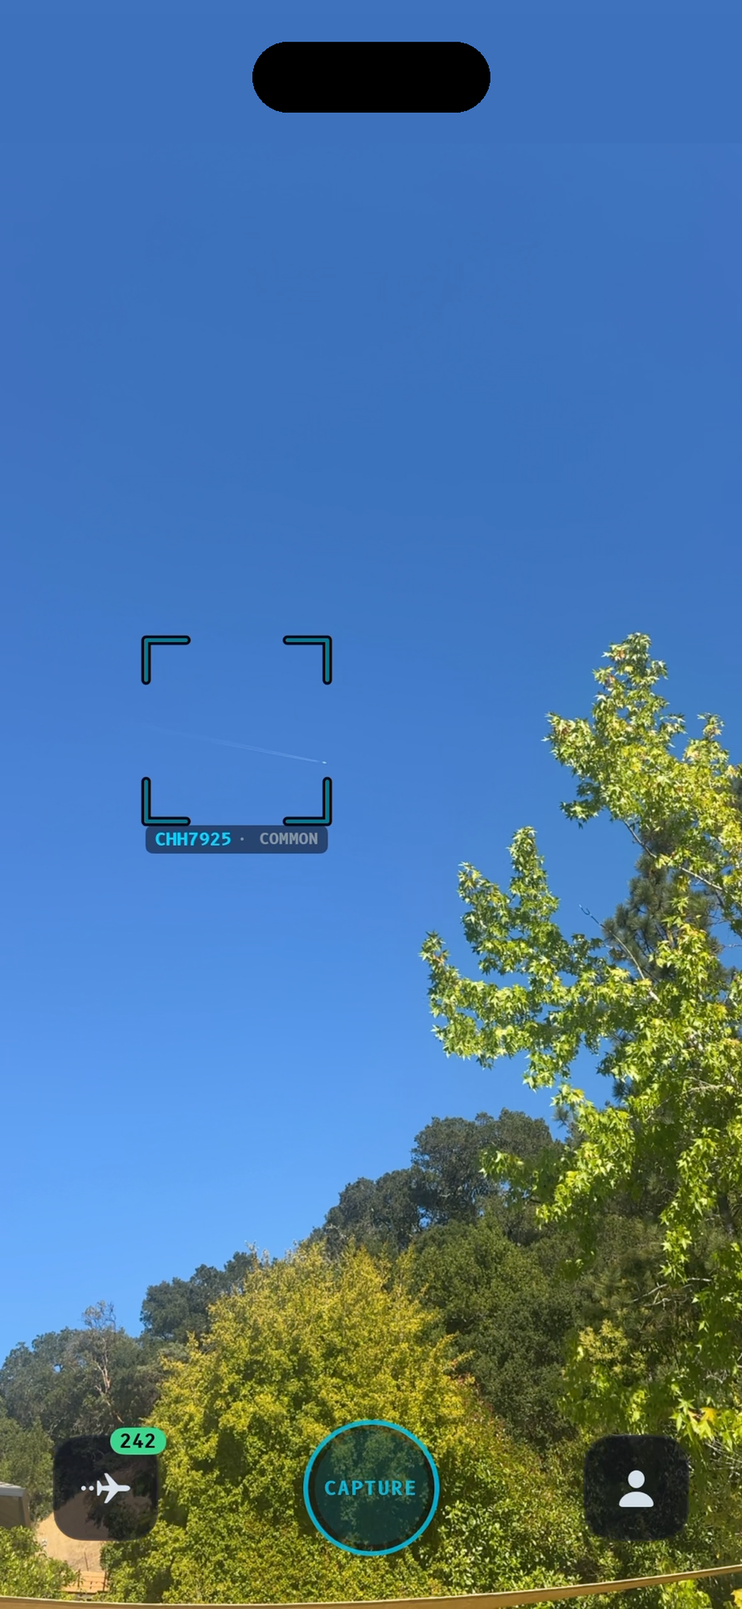
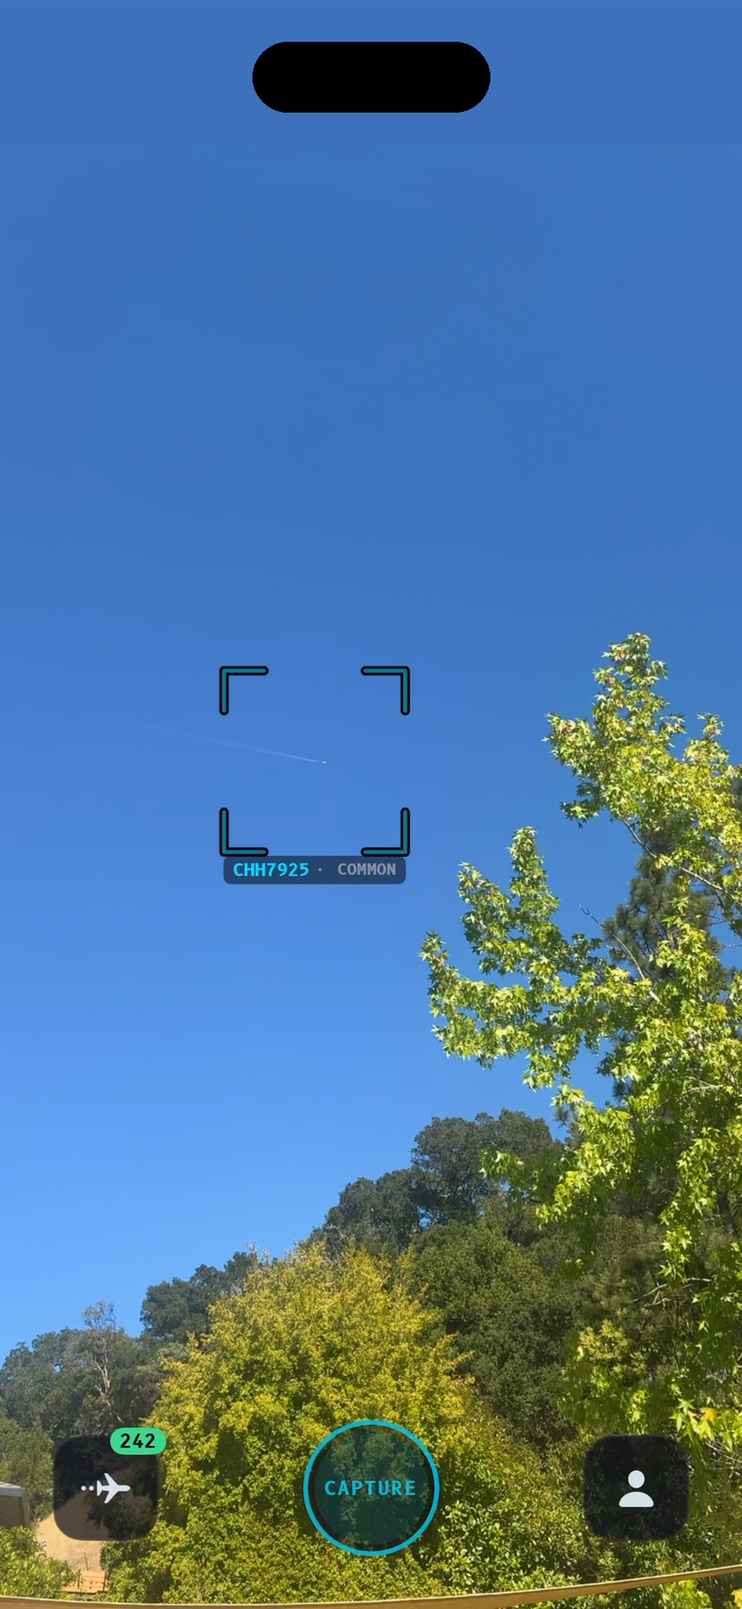
marketing: align the hero bracket, add the 1242x2688 export size
Two things from Noah.

Bracket: the hero's lock-on bracket is now recentred on the plane. I'd left
it as-shot and flagged that moving it edits what the app did in that moment;
Noah made the call after seeing both. The unretouched capture is kept at
docs/ga/screenshots-raw/01-hud-bracket-as-shot.png so the original framing
isn't lost.

The alignment is redone on the current no-status-bar base rather than reusing
the earlier build. The contrail is explicitly excluded from the move mask, so
the plane and its trail stay exactly where they were photographed and only the
HUD travels; the label pill's band is filled before the lift so its light
"COMMON" glyphs move with the pill instead of being stranded.

Sizes: App Store Connect's iPhone slot accepts 1242x2688 or 1284x2778, and
EXPORT_SIZES topped out at 1320x2868 with no 1242x2688 at all. Added it, and
fixed the label on 1284x2778 — that's the 6.7" alternate, not 6.5". The deck
now exports at five sizes.

The July set that shipped with v1.0.0 is preserved next to the new export as
export-archive-2026-07-21-shipped-v1.0.0/ rather than overwritten. Both are
gitignored.

Claude-Session: https://claude.ai/code/session_01HfKbi9nJQTCw4nCWnEhZQe

diff --git a/marketing/app-store-screenshots/src/lib/constants.ts b/marketing/app-store-screenshots/src/lib/constants.ts
@@ -14,9 +14,13 @@ export const CANVAS: Record<Device, { w: number; h: number; wL?: number; hL?: nu
 export type ExportSize = { label: string; w: number; h: number };
 
 export const EXPORT_SIZES: Record<Device, ExportSize[]> = {
+  // App Store Connect's iPhone display slots. The 6.7"/6.5" slot accepts
+  // 1284x2778 OR 1242x2688 — ship both so the upload never bounces on size.
+  // (1284x2778 was previously mislabelled 6.5"; that size is the 6.7" alternate.)
   iphone: [
     { label: '6.9"', w: 1320, h: 2868 },
-    { label: '6.5"', w: 1284, h: 2778 },
+    { label: '6.7"', w: 1284, h: 2778 },
+    { label: '6.5"', w: 1242, h: 2688 },
     { label: '6.3"', w: 1206, h: 2622 },
     { label: '6.1"', w: 1125, h: 2436 },
   ],

diff --git a/PLAN.md b/PLAN.md
@@ -398,7 +398,7 @@ historical plans/specs/reviews. Still only planned:
 | 5 | ~~**Card-art medium decision (§6.3) → better-cards build**~~ | Bet B · Collection | — | **✅ RESOLVED 2026-07-09 — keep the current hero (own photo / placeholder); no new medium, no art spend.** Decided on-device via the Card Art Lab spike (see §6.3 for the full record). The "better-cards build" as scoped is retired; card excitement continues through the chrome/reveal polish already shipping in #6. |
 | 6 | **UX/UI polish sweep** (+ grounded-plane block + "tried it" badge, old #8/#11) | Bet B · craft | ~1–2d | First impressions for the launch cohort; lingering cruft that doesn't fit the new points scheme. The grounded-plane easter egg folds in as part of the same pass. **Early progress 2026-07-04:** the Recent `TailCard` now speaks the reveal's design language (hero model line + mono route with rarity-tinted arrow — branch `feat/recent-card-reveal-language`; review doc `docs/archive/reviews/2026-07-04-recent-card-reveal-language.html`). **2026-07-05:** the detail screen became the settled reveal card itself (Direction B, PR #103), and the share image + photo crop followed (share artboard = settled card in brand chrome; hero crop anchors on the plane via `Catch.photoFocusX/Y` — branch `feat/share-settled-focus`). **2026-07-08:** Profile/Settings legacy-artifact scrub for v1 (branch `polish/settings-v1-cleanup`): OpenSky data-source credit → adsb.lol; fake `PUBLIC` pill + onboarding public-profile toggle removed; Notifications placeholder + orphaned `TrophiesScreen` deleted; rarity-reference examples re-synced to the 2026-07-01 tiers; Settings on brand list chrome (was system-white in light mode). Details: CHANGELOG 2026-07-08. **2026-07-09 (branch `feat/catch-card-centering`, Noah field feedback):** the **flight number (callsign)** now shows on `SettledCatchCard` (right-aligned tier line); the photo actually **centers on the plane** — `CatchPhotoFocusRecovery` back-fills `photoFocus` from the baked cyan bracket for the 82/85 catches that had none (version-gated `CatchBackfill.backfillPhotoFocus`, off-MainActor), and `FocusFill` now zooms in (capped 1.6×) to pull outer-band planes to center. N415YX re-healed on its detected plane (the earlier "sub-floor speck" call was wrong — a targeted pass finds it at 15 px/0.54). The Hangar **list thumbnails** (`TailCard`) now center on the plane too via `FocusThumbnail` (ImageIO-downsampled, `FocusFill`-cropped — branch `feat/thumbnail-focus`). **2026-07-10 — polish sweep PR A ("the mechanical ten") SHIPPED** (branch `polish/mechanical-sweep`): the objective fixes from the full-app UI survey — stale "Settings → Identity" copy → "Profile → Settings"; Leaderboard List branded (was the last system-chrome List, white in light mode) + its section headers restyled to the mono ALL-CAPS pattern; empty AccentColor asset filled with brand cyan; `Color.primary` legal-link leak → `Brand.Color.textPrimary`; a11y labels on the catch-detail chrome pills; 44 pt hit targets (contentShape inset, no visual bloat) on the chrome pills + Hangar child-bar back; dead `ComingSoonPill.swift` deleted; re-typed hexes routed through Brand (`ledgerGold`, `duplicateRose`, `Rarity.rare` → `Brand.Color.cyan` — zero pixel drift, snapshot-verified); Reduce Motion coverage for the reveal split-flap (fade to identical settled frame), MultiCatchReveal (plain fades, cadence kept), Figure8Animation (static path), and the empty-sky pulse dot. Details: CHANGELOG 2026-07-10. **2026-07-10 — taste-call PR B ("the taste calls") BUILT** (branch `polish/taste-calls`): Noah's seven verdicts — app locked to dark (`preferredColorScheme(.dark)` at the root; PR A's light-mode compensations kept as belt-and-suspenders); `Brand.Radius` token scale (chip 6 / row 12 / card 16 / hero 26; 69 literals snapped, computed/dims-table/tiny-accent/HUD-bracket exceptions left literal); `Brand.Font.display` (26 pt bold) as the ONE prose-head size (nine freelancing heads converted) + the mono-vs-system type rule codified in Brand.swift; dry voice (indoor hint → "Not many planes indoors."; unclaimed handle = designed CLAIM YOUR HANDLE state on the Profile header instead of "@spotter_42", Settings no longer prefills the placeholder); Profile Liquid Glass KEPT, duplicate-catch haptic KEPT, nav-chrome rule codified doc-only (custom chrome = game surfaces, stock-but-branded = utility screens). Details: CHANGELOG 2026-07-10. **Sweep remainder: Noah's on-device field pass** over the taste calls (D1/D3/D6 want feel, not screenshots) + the still-open grounded-plane "tried it" badge. **2026-07-12 — HIG compliance pass SHIPPED** (branch `hig-compliance-fixes`, from the full-app HIG audit + the `ehmo/platform-design-skills` cross-check): (1) **Dynamic Type end-to-end** — Brand system tokens now ride the built-in text styles (identical metrics at default, so zero pixel drift), `Brand.Font.mono(…, relativeTo:)` anchors mono on every scrollable surface, the 26 pt display head became `.brandDisplayFont()` (`@ScaledMetric`), and **Bold Text** maps mono to the B612 Bold face via a `TailspotApp`-refreshed mirror; AR HUD + card artboards stay fixed BY CHOICE. (2) **VoiceOver on the catch loop** — AR plane labels are elements with pin/unpin actions (nearest-first), the reveal announces the result on settle, `FlapRow` reads as one label (kills letter-by-letter model names, reveal + Hangar hero), leaderboard/profile/cards/tiles/rows read as single combined elements, decorative symbols hidden app-wide. (3) **44 pt touch targets** on all 17 audited controls (contentShape insets — no visual bloat) + interactive sub-11 pt text bumped to 11. (4) Point fixes: Hangar sheet close pill, locked-Set-tile + dimmed-AR-label + version-footer contrast, Reduce Motion gates (empty-tap ripple, segmented pills, completion ring), capture bar clears the home indicator, launch screen paints bgPrimary (was a white flash on light-mode phones), orphaned `CardReveal.swift` deleted. New `DynamicTypeSnapshotTests` renders key screens at default vs `.accessibility2` as the scaling regression net. Audit + findings: the session's HIG artifact; review doc in `docs/archive/reviews/`. |
 | 7 | **Hangar restore/sync** (widened from old #14 Sets sync) | Bet D · Backend | ~2–3d | **SHIPPED — merged #125 (2026-07-11); backend prod deploy pending Noah's go.** Elevated by GA: the local-only Hangar (no sync, photos never uploaded) is tester-acceptable but a GA-scale catastrophic-loss risk — delete/replace the phone and the collection is gone (device-id Keychain fix #55 landed; restore is the open follow-up #58). Catches already upload; the gap is the restore path + Sets. **Restore-from-server merged #125**: backend `GET /v1/catches` (device-scoped, paged, airframe joins; NO schema change/migration) + iOS `HangarRestoreManager`/`HangarRestorePromptView` — empty-Hangar launch check → "N CATCHES FOUND" offer (photo caveat up front: photos are unrecoverable, catch-data only) → idempotent insert keyed on the upload uuid, born-uploaded (no re-POST), trophy-ledger reseed (no celebration flood), one `hangar_restored` event. Details CHANGELOG 2026-07-10. **Remaining for this row:** on-device reinstall field test (Noah), photo upload/sync decision (deliberately out of scope, issue #58), and Sets sync if it's ever more than restore. |
-| 8 | **GA-gate housekeeping** — ICAO DOC 8643 terms re-check (old #15, ~30 min), privacy policy + ToS, App Store assets/ASO, region-limited-launch confirm (§6.6) | Housekeeping · launch gate | ~2–3d spread | **Drafts done 2026-07-11 — `docs/ga/`** (branch `docs/ga-housekeeping`): revised privacy policy + ToS grounded in verified source (the hosted June-11 pages are stale — embedded PostHog SDK + session replay, continuous while-in-use location polls, and Hangar restore are all undisclosed), the Planespotters/adsb.lol licensing review (verdict: keep both; adsb.lol fully compliant; Planespotters compliant except the thumbnail itself isn't link-backed — one small `CatchDetailView` fix), the full App Store listing draft (name/subtitle/description/keywords, Games→Casual, 4+, honest nutrition-label table), and the 6.7" screenshot plan (capture on-device, frame to 1290×2796; guess-round shot gated on game-layer PR3). **Region decided: worldwide** (Noah, 2026-07 — supersedes §6.6's US+W. Europe default; mitigation = coverage caveat in the listing + empty-sky messaging). **Code-level gaps CLOSED 2026-07-11 (branch `feat/launch-readiness`; audit docs in PR #128):** session-replay privacy (scoped `.postHogMask()` on all catch-photo views; camera excluded structurally + pinned by `SessionReplayPrivacyTests`), Planespotters thumbnail-link fix + UA bump, PrivacyInfo.xcprivacy Linked=true truth-up (Photos declaration removed — never collected), `ITSAppUsesNonExemptEncryption=NO`, **MARKETING_VERSION → 1.0.0**, and the rewritten `web/public/privacy.html` + `terms.html` (effective 2026-07-11) — details CHANGELOG 2026-07-11. **Still open, all Noah/manual:** deploy tailspot-www with the rewritten pages (`cd web && flyctl deploy --remote-only`, Noah's go); the App Store Connect click-through (checklist in `docs/ga/appstore-listing.md` — privacy label/nutrition sync matching the manifest's Linked=true posture, age rating, availability=all regions, review notes + outdoor-catch demo video); the ICAO terms re-check (needs the live terms page). **App Store screenshots GENERATED 2026-07-20** (supersedes the field-session-first plan): the full 6-slide set — AR catch → collection card → guess round → Hangar sets → trophies → leaderboard, Noah's copy, no label eyebrows — exported at all four required iPhone sizes from the `marketing/app-store-screenshots/` editor (deck in `app-store-screenshots.json`, "tailspot-dusk" theme + contrail decor; the store-ready PNGs live in its gitignored `export/` + the editor's zip in `~/Downloads`, regenerable via Export bundle). Source captures render from real screens with fixture data via `MarketingSnapshotTests` (ImageRenderer for card shots; glass-bearing screens captured off the booted sim via the `tools/marketing-shot-watcher.sh` + flag-file handshake — offscreen capture garbles `.glassEffect`; the suite only runs with `TEST_RUNNER_MARKETING_CAPTURE=1`, CI skips it). The **field session now only replaces slide 1** (the AR shot is a stylized stand-in composed from the real HUD components — sim has no camera); slides 4–5 can optionally swap in Noah's real Hangar. **SUBMITTED TO THE APP STORE 2026-07-21 (v1.0.0, Waiting for Review)** — the ASC click-through is done. `tailspot-www` deployed 2026-07-21 with the rewritten privacy/ToS (effective 2026-07-11; previously repo-only — the live site had been serving the stale June-11 pages) plus a new **`/support` page** (mailto button to support@tailspot.app; this is the listing's support URL; Support footer link sitewide; `.content a.btn-primary` contrast fix for buttons on content pages). **Screenshots upgraded to REAL catches 2026-08-19** (branch `marketing/real-catch-photos`): slides 2 (collection card) and 3 (guess round) were rendering a synthetic dusk gradient with an SF Symbol airplane and invented catches (a Lufthansa A380, a Cathay 747-8F). They now render Noah's own catches — the BD-700 Global Express at 43,225 ft (RARE, first of type, +75) and the JetBlue A321neo up from Guayaquil — using the app's own composed catch JPEGs as hero photos. Ten real catch photos + a bracket-centre focus manifest live in `marketing/catch-photos/`, staged for the sim by `bin/marketing-stage-photos`; `MarketingSnapshotTests` gained a shared `writeOffscreen` writer because ImageRenderer draws any photo-bearing card as the yellow "no entry" placeholder. Slide 1's callsigns/tiers are now real too, but its SKY is still synthetic — the share-card crops are landscape strips and can't fill a portrait frame. **Finishing it needs the phone UNLOCKED**: the full-frame originals are in `Documents/catches/` and pull via `devicectl` (blocked on `kAMDMobileImageMounterDeviceLocked` on 2026-08-19). Re-export the bundle from the editor before the next submission. **Slide 1 replaced with a REAL field capture 2026-08-19** (Noah's HUD screenshot, CHH7925 over Berkeley): the synthetic dusk sky is gone from the whole deck. Retouch was cosmetic only — the in-progress call pill, screen-recording dot and mic indicator were painted out and the Dynamic Island/battery restored to idle, over sky extrapolated from the rows below. **The lock-on bracket was deliberately NOT moved**, though it sits low-right of the plane: everything else is cosmetic, but repositioning the bracket edits what the app did, and "the lock-on found the plane" is the product's core claim (the offset is invisible at store scale anyway). An aligned version exists at `docs/ga/screenshots-raw/01-hud-bracket-aligned-NOT-SHIPPED.png` if Noah decides otherwise. Source was 923 px wide (pasted, not the original file) and upscaled to 1179 — a re-shoot wants a closer plane, the bracket in the upper-middle third, DND on, and the original file. Bundle re-exported at all four sizes. **Three follow-up fixes 2026-08-19 (Noah's review):** (1) the status bar is now removed ENTIRELY from slide 1 — no time, carrier, wifi or battery, only the Dynamic Island (hardware); the rebuilt-clean-bar version still read wrong. (2) The collection card's stacked back card is GONE — at every offset tried (below-right, corner-peek, with/without photo) only a FRAGMENT of the back card showed, which reads as a rendering bug; slide 4's Hangar grid already sells the collection. (3) The decorative `Contrail` in `slide-canvas.tsx` was deleted — at export opacity its two trail lines vanished and only the head dot survived, leaving a stray speck in the top-right of all six slides at every size. **Also hardened:** a missing staged catch photo now fails LOUDLY via `Issue.record` — `/private/tmp` is swept periodically and the harness had been silently degrading to the illustrated placeholder, which nearly shipped into the deck mid-session. Always run `bin/marketing-stage-photos` immediately before a capture. Still open: the ICAO DOC 8643 terms re-check (now unblocked — live terms page is up), and riding out App Review (Resolution Center replies as needed; check the release-on-approval setting). |
+| 8 | **GA-gate housekeeping** — ICAO DOC 8643 terms re-check (old #15, ~30 min), privacy policy + ToS, App Store assets/ASO, region-limited-launch confirm (§6.6) | Housekeeping · launch gate | ~2–3d spread | **Drafts done 2026-07-11 — `docs/ga/`** (branch `docs/ga-housekeeping`): revised privacy policy + ToS grounded in verified source (the hosted June-11 pages are stale — embedded PostHog SDK + session replay, continuous while-in-use location polls, and Hangar restore are all undisclosed), the Planespotters/adsb.lol licensing review (verdict: keep both; adsb.lol fully compliant; Planespotters compliant except the thumbnail itself isn't link-backed — one small `CatchDetailView` fix), the full App Store listing draft (name/subtitle/description/keywords, Games→Casual, 4+, honest nutrition-label table), and the 6.7" screenshot plan (capture on-device, frame to 1290×2796; guess-round shot gated on game-layer PR3). **Region decided: worldwide** (Noah, 2026-07 — supersedes §6.6's US+W. Europe default; mitigation = coverage caveat in the listing + empty-sky messaging). **Code-level gaps CLOSED 2026-07-11 (branch `feat/launch-readiness`; audit docs in PR #128):** session-replay privacy (scoped `.postHogMask()` on all catch-photo views; camera excluded structurally + pinned by `SessionReplayPrivacyTests`), Planespotters thumbnail-link fix + UA bump, PrivacyInfo.xcprivacy Linked=true truth-up (Photos declaration removed — never collected), `ITSAppUsesNonExemptEncryption=NO`, **MARKETING_VERSION → 1.0.0**, and the rewritten `web/public/privacy.html` + `terms.html` (effective 2026-07-11) — details CHANGELOG 2026-07-11. **Still open, all Noah/manual:** deploy tailspot-www with the rewritten pages (`cd web && flyctl deploy --remote-only`, Noah's go); the App Store Connect click-through (checklist in `docs/ga/appstore-listing.md` — privacy label/nutrition sync matching the manifest's Linked=true posture, age rating, availability=all regions, review notes + outdoor-catch demo video); the ICAO terms re-check (needs the live terms page). **App Store screenshots GENERATED 2026-07-20** (supersedes the field-session-first plan): the full 6-slide set — AR catch → collection card → guess round → Hangar sets → trophies → leaderboard, Noah's copy, no label eyebrows — exported at all four required iPhone sizes from the `marketing/app-store-screenshots/` editor (deck in `app-store-screenshots.json`, "tailspot-dusk" theme + contrail decor; the store-ready PNGs live in its gitignored `export/` + the editor's zip in `~/Downloads`, regenerable via Export bundle). Source captures render from real screens with fixture data via `MarketingSnapshotTests` (ImageRenderer for card shots; glass-bearing screens captured off the booted sim via the `tools/marketing-shot-watcher.sh` + flag-file handshake — offscreen capture garbles `.glassEffect`; the suite only runs with `TEST_RUNNER_MARKETING_CAPTURE=1`, CI skips it). The **field session now only replaces slide 1** (the AR shot is a stylized stand-in composed from the real HUD components — sim has no camera); slides 4–5 can optionally swap in Noah's real Hangar. **SUBMITTED TO THE APP STORE 2026-07-21 (v1.0.0, Waiting for Review)** — the ASC click-through is done. `tailspot-www` deployed 2026-07-21 with the rewritten privacy/ToS (effective 2026-07-11; previously repo-only — the live site had been serving the stale June-11 pages) plus a new **`/support` page** (mailto button to support@tailspot.app; this is the listing's support URL; Support footer link sitewide; `.content a.btn-primary` contrast fix for buttons on content pages). **Screenshots upgraded to REAL catches 2026-08-19** (branch `marketing/real-catch-photos`): slides 2 (collection card) and 3 (guess round) were rendering a synthetic dusk gradient with an SF Symbol airplane and invented catches (a Lufthansa A380, a Cathay 747-8F). They now render Noah's own catches — the BD-700 Global Express at 43,225 ft (RARE, first of type, +75) and the JetBlue A321neo up from Guayaquil — using the app's own composed catch JPEGs as hero photos. Ten real catch photos + a bracket-centre focus manifest live in `marketing/catch-photos/`, staged for the sim by `bin/marketing-stage-photos`; `MarketingSnapshotTests` gained a shared `writeOffscreen` writer because ImageRenderer draws any photo-bearing card as the yellow "no entry" placeholder. Slide 1's callsigns/tiers are now real too, but its SKY is still synthetic — the share-card crops are landscape strips and can't fill a portrait frame. **Finishing it needs the phone UNLOCKED**: the full-frame originals are in `Documents/catches/` and pull via `devicectl` (blocked on `kAMDMobileImageMounterDeviceLocked` on 2026-08-19). Re-export the bundle from the editor before the next submission. **Slide 1 replaced with a REAL field capture 2026-08-19** (Noah's HUD screenshot, CHH7925 over Berkeley): the synthetic dusk sky is gone from the whole deck. Retouch was cosmetic only — the in-progress call pill, screen-recording dot and mic indicator were painted out and the Dynamic Island/battery restored to idle, over sky extrapolated from the rows below. **The lock-on bracket was deliberately NOT moved**, though it sits low-right of the plane: everything else is cosmetic, but repositioning the bracket edits what the app did, and "the lock-on found the plane" is the product's core claim (the offset is invisible at store scale anyway). An aligned version exists at `docs/ga/screenshots-raw/01-hud-bracket-aligned-NOT-SHIPPED.png` if Noah decides otherwise. Source was 923 px wide (pasted, not the original file) and upscaled to 1179 — a re-shoot wants a closer plane, the bracket in the upper-middle third, DND on, and the original file. Bundle re-exported at all four sizes. **Three follow-up fixes 2026-08-19 (Noah's review):** (1) the status bar is now removed ENTIRELY from slide 1 — no time, carrier, wifi or battery, only the Dynamic Island (hardware); the rebuilt-clean-bar version still read wrong. (2) The collection card's stacked back card is GONE — at every offset tried (below-right, corner-peek, with/without photo) only a FRAGMENT of the back card showed, which reads as a rendering bug; slide 4's Hangar grid already sells the collection. (3) The decorative `Contrail` in `slide-canvas.tsx` was deleted — at export opacity its two trail lines vanished and only the head dot survived, leaving a stray speck in the top-right of all six slides at every size. **Also hardened:** a missing staged catch photo now fails LOUDLY via `Issue.record` — `/private/tmp` is swept periodically and the harness had been silently degrading to the illustrated placeholder, which nearly shipped into the deck mid-session. Always run `bin/marketing-stage-photos` immediately before a capture. **Bracket aligned + 1242×2688 added 2026-08-20 (Noah's call):** the hero's lock-on bracket IS now recentred on the plane — Noah decided after seeing the trade-off; the unretouched original is kept at `docs/ga/screenshots-raw/01-hud-bracket-as-shot.png`. `EXPORT_SIZES` gained **1242×2688** (and 1284×2778 was mislabelled 6.5" — it is the 6.7" alternate), because App Store Connect's iPhone slot accepts 1242×2688 / 1284×2778 and the deck previously exported neither as its top size. The set now exports at five sizes; the July set that shipped with v1.0.0 is archived alongside as `export-archive-2026-07-21-shipped-v1.0.0/`. Still open: the ICAO DOC 8643 terms re-check (now unblocked — live terms page is up), and riding out App Review (Resolution Center replies as needed; check the release-on-approval setting). |
 | 9 | **Push alerts (v1.1 headline)** — (a) leaderboard/contest + (b) plane-overhead (rare + personal-gap) + (c) streak-protection (bbox watch → APNs) | Engagement bet | ~5–7d | **v1.1 HEADLINE (2026-07-21 re-prioritization — see the top of §9). Scope defined 2026-07-21 (Noah): three alert categories sharing one APNs foundation.** Still the marquee retention lever (DAU/WAU), and it pays off against an installed base — that base arrives with GA. **(a) Leaderboard/contest alerts** — rides the #12 dynamic-leaderboard machinery (calendar weeks, UTC close, decide-on-read champion freezing). Four moments: **board-close result** — your finishing spot when the week closes (top-3 gets podium/champion framing; open sub-call: alert top-3 only vs. every finisher); **closing-window nudge** — the board is about to close and a better rank is within reach ("N points from #2 — resets Monday"); **overtaken** — someone passed you mid-week (the opportunity-to-improve-your-rank hook); **new-board open** — fresh week, everyone at zero, the champion is there to be replaced. The backend already computes every trigger except *overtaken* (needs a rank-change watcher); most of (a)'s cost is scheduling/delivery, not new game logic. **(b) Plane-overhead alerts (rare + personal collection gap)** — the original concept (wishlist #5): the server watches the ADS-B feed around each device's area and pushes when an alert-worthy type is anticipated to pass overhead **under conditions it could plausibly be seen** (daylight, inside the visibility band the app already models, enough lead time to step outside) — a real chance to catch it and add to the score, and the strongest re-engage-from-outside-the-app lever. Alert-worthy means either: an **uncommon-or-rarer** tier, or (**personal-gap targeting, added 2026-07-21**) a type the device has **never caught** — globally common but personally novel (the PoGo "one you don't have" hook; first-of-type is already server-detectable from the device's uploaded catches, so no new data is needed). Gap targeting massively widens the alertable inventory without lowering the interestingness bar — every alert is a plane the user's collection wants. Set-completion targeting ("this completes your Widebody set") is a stretch goal: Sets are client-derived today, so the server would need the set definitions. **(c) Streak-protection alerts** (added 2026-07-21; gated on the daily catch-streak mechanic + LONGEST STREAK Profile stat riding v1.1 in parallel — see the header): when a live streak is about to lapse, one evening-local nudge — "your N-day streak ends at midnight — catch one today." Fires only for streaks worth protecting (≥3 days) and ideally only when the local sky actually has catchable traffic (reuses (b)'s watch machinery); the server computes the current streak from uploaded catches. Open sub-call: day boundary — lean **local midnight** (PoGo-style; users experience days locally) over UTC, unlike the leaderboard's deliberate UTC weeks. **Frequency discipline is a design requirement, not post-hoc tuning:** (b)+(c) share one hard cap (order ~1/day max across overhead + streak nudges; tier-weighted, and common types never fire unless personally novel) and (a) is capped per-week; every alert must be actionable the moment it arrives, or it trains users to disable notifications. Cross-cutting: manual APNs setup (developer-portal key + Xcode Push capability — Noah/manual); notification permission asked **in context** (after a first catch or when turning a category on — never at first launch); per-category opt-outs in Settings; and (b) needs a **stored coarse device location** (last-known bbox from catch uploads, or an opt-in) — a privacy-policy/§7 addition, since the current posture promises catch locations aren't retained as history. The push-alert-linked trophy (catch a plane you were alerted to) is (b)'s synergy candidate from the v1.1 header. |
 | 10 | Surface catch-sharing remaining + selectable reticle color + **Spotter Pass share/invite** | Bet C · Social / craft | ~hrs–2d | Mostly shipped (share-card image #38); low-priority polish. Reticle color pick (wishlist #2) parked here with it. **2026-07-08 addition (Noah-approved concept):** rework the profile share artboard as a boarding-pass-style **SPOTTER PASS** — rank where the seat goes, points as miles, perforated stub with a scannable challenge/invite code. Came out of the profile-layout exploration (Direction D, mock render in the 2026-07-08 review artifact); the pass is the *share/invite object*, not the profile layout itself. Effort grows past ~hrs once the scan code becomes a real invite deep link. **2026-07-08 (branch `feat/profile-standing-layout`):** the profile share settled on **deliberately minimal** — one tap → "Join me on Tailspot:" + the tailspot.app link (rich preview via the site's OG tags) + a `profile_share_opened` funnel event; a richer stat-card artboard with challenge copy + QR was built and cut as too much (git history / the exploration artifact have it if this item wants it back). Still here: per-user invite codes/deep link, joined-from-your-invite attribution, and the **invite trophy** (Noah — award it on a *friend actually joining*, which needs the attribution, not on tapping share). |
 | 12 | **Dynamic leaderboards** — week/month windows + weekly champions + leaderboard trophies | Bet B · Collection / engagement | ~2–3d | Makes the board winnable again for new players (all-time compounds forever; a weekly board resets the race) and feeds two new trophies. **Design locked 2026-07-09, Noah's calls L1–L6:** L1 **calendar** windows (THIS WEEK / THIS MONTH + all-time, not rolling), L2 **UTC** boundaries (Mon 00:00 / 1st 00:00), L3 **no winner floor** (whoever is #1 at week close wins, even with 1 catch; only a zero-catch week is champion-less), L4 **shared crowns on ties** (every tied device gets a `weekly_champions` row + a win), L5 **all three trophies** (weekly-win count, ever-topped-all-time, last week's champions surfaced), L6 **banner + laurel** presentation. **PR1 (backend) merged #131:** `GET /v1/leaderboard?window=week\|month\|all` (default `all`, old clients additive-only), in-window sums/ranks, `resetsAt`, last-closed-week `champions` (null handle = anonymous champion), `me.weeklyWins`/`me.everToppedAllTime`; decide-on-read lazy champion freezing (atomic INSERT…SELECT, idempotent, backfills all never-decided weeks since the earliest catch) + `alltime_toppers` ledger; migration `0007_leaderboard-windows.sql` was a manual prod apply (done — `window=week` is live in prod; see the follow-up fixes #134/#136). Details: CHANGELOG 2026-07-11. **PR2 (iOS) merged #132:** WEEK (default)/MONTH/ALL TIME tabs on `LeaderboardScreen` (mono segmented switcher, per-window response cache + silent refresh), reset countdown in device-local time ("RESETS MONDAY · 2D 14H LEFT" / "RESETS AUG 1"), LAST WEEK'S CHAMPION banner (shared crowns side by side, 3+ → "+N more", null handle → "anonymous spotter", empty → quiet no-champion line), per-window YOUR STANDING header, and the Profile **WEEKLY CHAMPION ×N** laurel cached in @AppStorage (L6). **FAIL-SOFT:** old backend (no `window` key) → tabs hide, all-time board renders unchanged — so PR2 can merge before PR1 deploys. Details CHANGELOG 2026-07-11. **PR3 (winner trophies) merged #135:** **Top Flight** (win a weekly board), **Dynasty** (SECRET, masked `???` — win 3), **Chart Topper** (ever hold #1 all-time) — SERVER-truth trophies off `me.weeklyWins`/`me.everToppedAllTime`, cached in the new `LeaderboardStandingCache` (written from the Profile/Leaderboard fetch completions, never inferred locally; offline-safe), new `TrophyProgressInputs` defaulted params, three new hex icons, `rosterVersion` 2→3 so pre-earned wins (Noah's crown backfill) absorb into ONE trophy-case recap, and a Profile-sheet-close re-diff so live crossings toast promptly. Details CHANGELOG 2026-07-11. **Feature complete.** |
